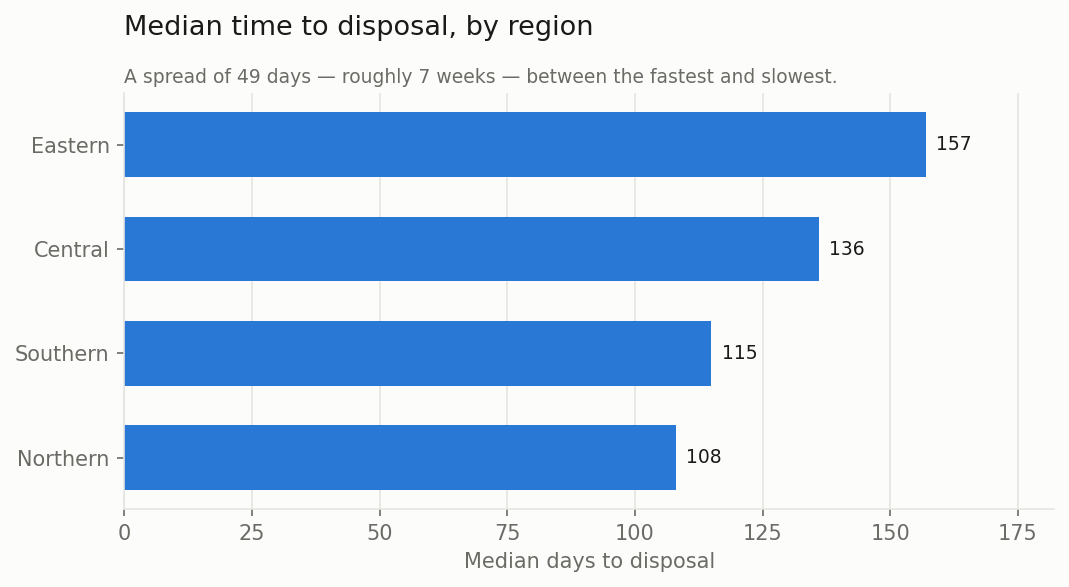
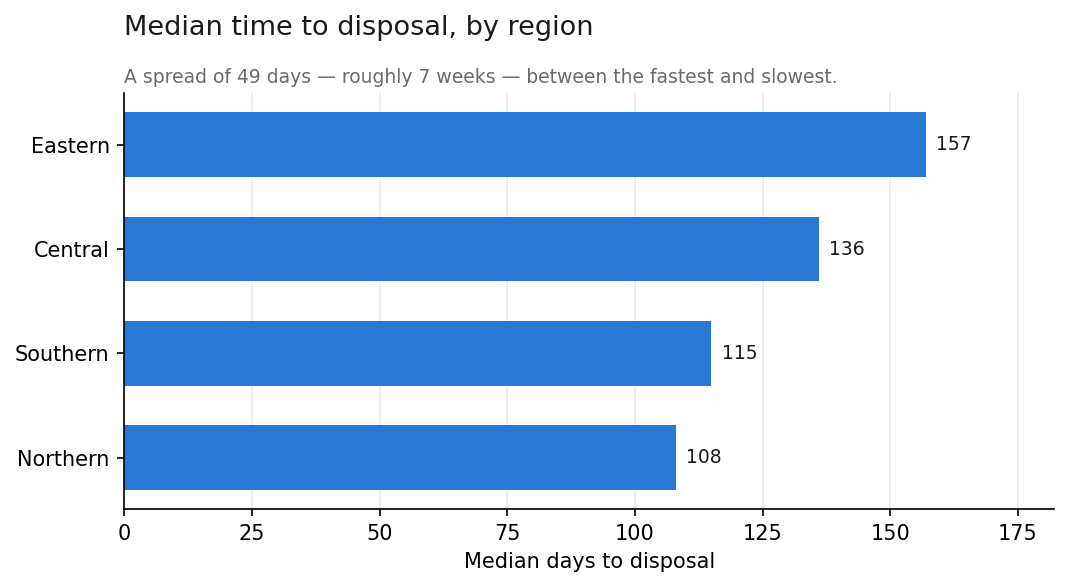
Switch charts to plain matplotlib style; add Colab notebook

diff --git a/src/make_charts.py b/src/make_charts.py
@@ -16,27 +16,30 @@ matplotlib.use("Agg")
 import matplotlib.pyplot as plt
 import pandas as pd
 
-from config import (BLUE, COMPLETENESS_FLOOR, FIGURE_DIR, GRID, INK, MUTED,
-                    ORANGE, OVERDUE_DAYS, PROCESSED_DIR, SURFACE)
+from config import (BLUE, CHART_STYLE, COMPLETENESS_FLOOR, FIGURE_DIR, GRID,
+                    INK, MUTED, ORANGE, OVERDUE_DAYS, PROCESSED_DIR, SURFACE)
+
+# Two styles. "plain" is matplotlib's own defaults with the chart junk removed -
+# it reads as a working notebook. "report" is the more designed version.
+# Set CHART_STYLE in src/config.py.
+if CHART_STYLE == "report":
+    plt.rcParams.update({
+        "figure.facecolor": SURFACE, "axes.facecolor": SURFACE,
+        "savefig.facecolor": SURFACE, "font.size": 10, "text.color": INK,
+        "axes.labelcolor": MUTED, "axes.edgecolor": GRID,
+        "xtick.color": MUTED, "ytick.color": MUTED,
+        "grid.color": GRID, "grid.linewidth": 0.8,
+    })
+else:
+    plt.rcParams.update(plt.rcParamsDefault)
+    plt.rcParams.update({"grid.alpha": 0.25})
 
 plt.rcParams.update({
-    "figure.facecolor": SURFACE,
-    "axes.facecolor": SURFACE,
-    "savefig.facecolor": SURFACE,
-    "font.family": "DejaVu Sans",
-    "font.size": 10,
-    "text.color": INK,
-    "axes.labelcolor": MUTED,
-    "axes.edgecolor": GRID,
-    "xtick.color": MUTED,
-    "ytick.color": MUTED,
+    "figure.dpi": 150,
     "axes.spines.top": False,
     "axes.spines.right": False,
     "axes.grid": True,
-    "grid.color": GRID,
-    "grid.linewidth": 0.8,
     "axes.axisbelow": True,
-    "figure.dpi": 150,
 })
 
 
@@ -86,7 +89,7 @@ def chart_distribution() -> None:
     med, mean = w.median(), w.mean()
 
     fig, ax = plt.subplots(figsize=(9.5, 4.0))
-    ax.hist(w, bins=45, color=BLUE, alpha=0.85, edgecolor=SURFACE, linewidth=0.6)
+    ax.hist(w, bins=45, color=BLUE, alpha=0.85, edgecolor="white", linewidth=0.6)
     ax.axvline(med, color=INK, lw=1.6, ls="-")
     ax.axvline(mean, color=ORANGE, lw=1.6, ls="--")
     top = ax.get_ylim()[1]

diff --git a/src/config.py b/src/config.py
@@ -61,6 +61,11 @@ CASE_TYPE_MAP = {
     "Crim": "Criminal",
 }
 
+# ---------------------------------------------------------------- charts
+# "plain"  - matplotlib defaults with chart junk removed. Reads as a working notebook.
+# "report" - the more designed treatment.
+CHART_STYLE = "plain"
+
 # ---------------------------------------------------------------- chart palette
 # Validated categorical slots 1 and 2 (see docs/methodology.md).
 BLUE = "#2a78d6"
